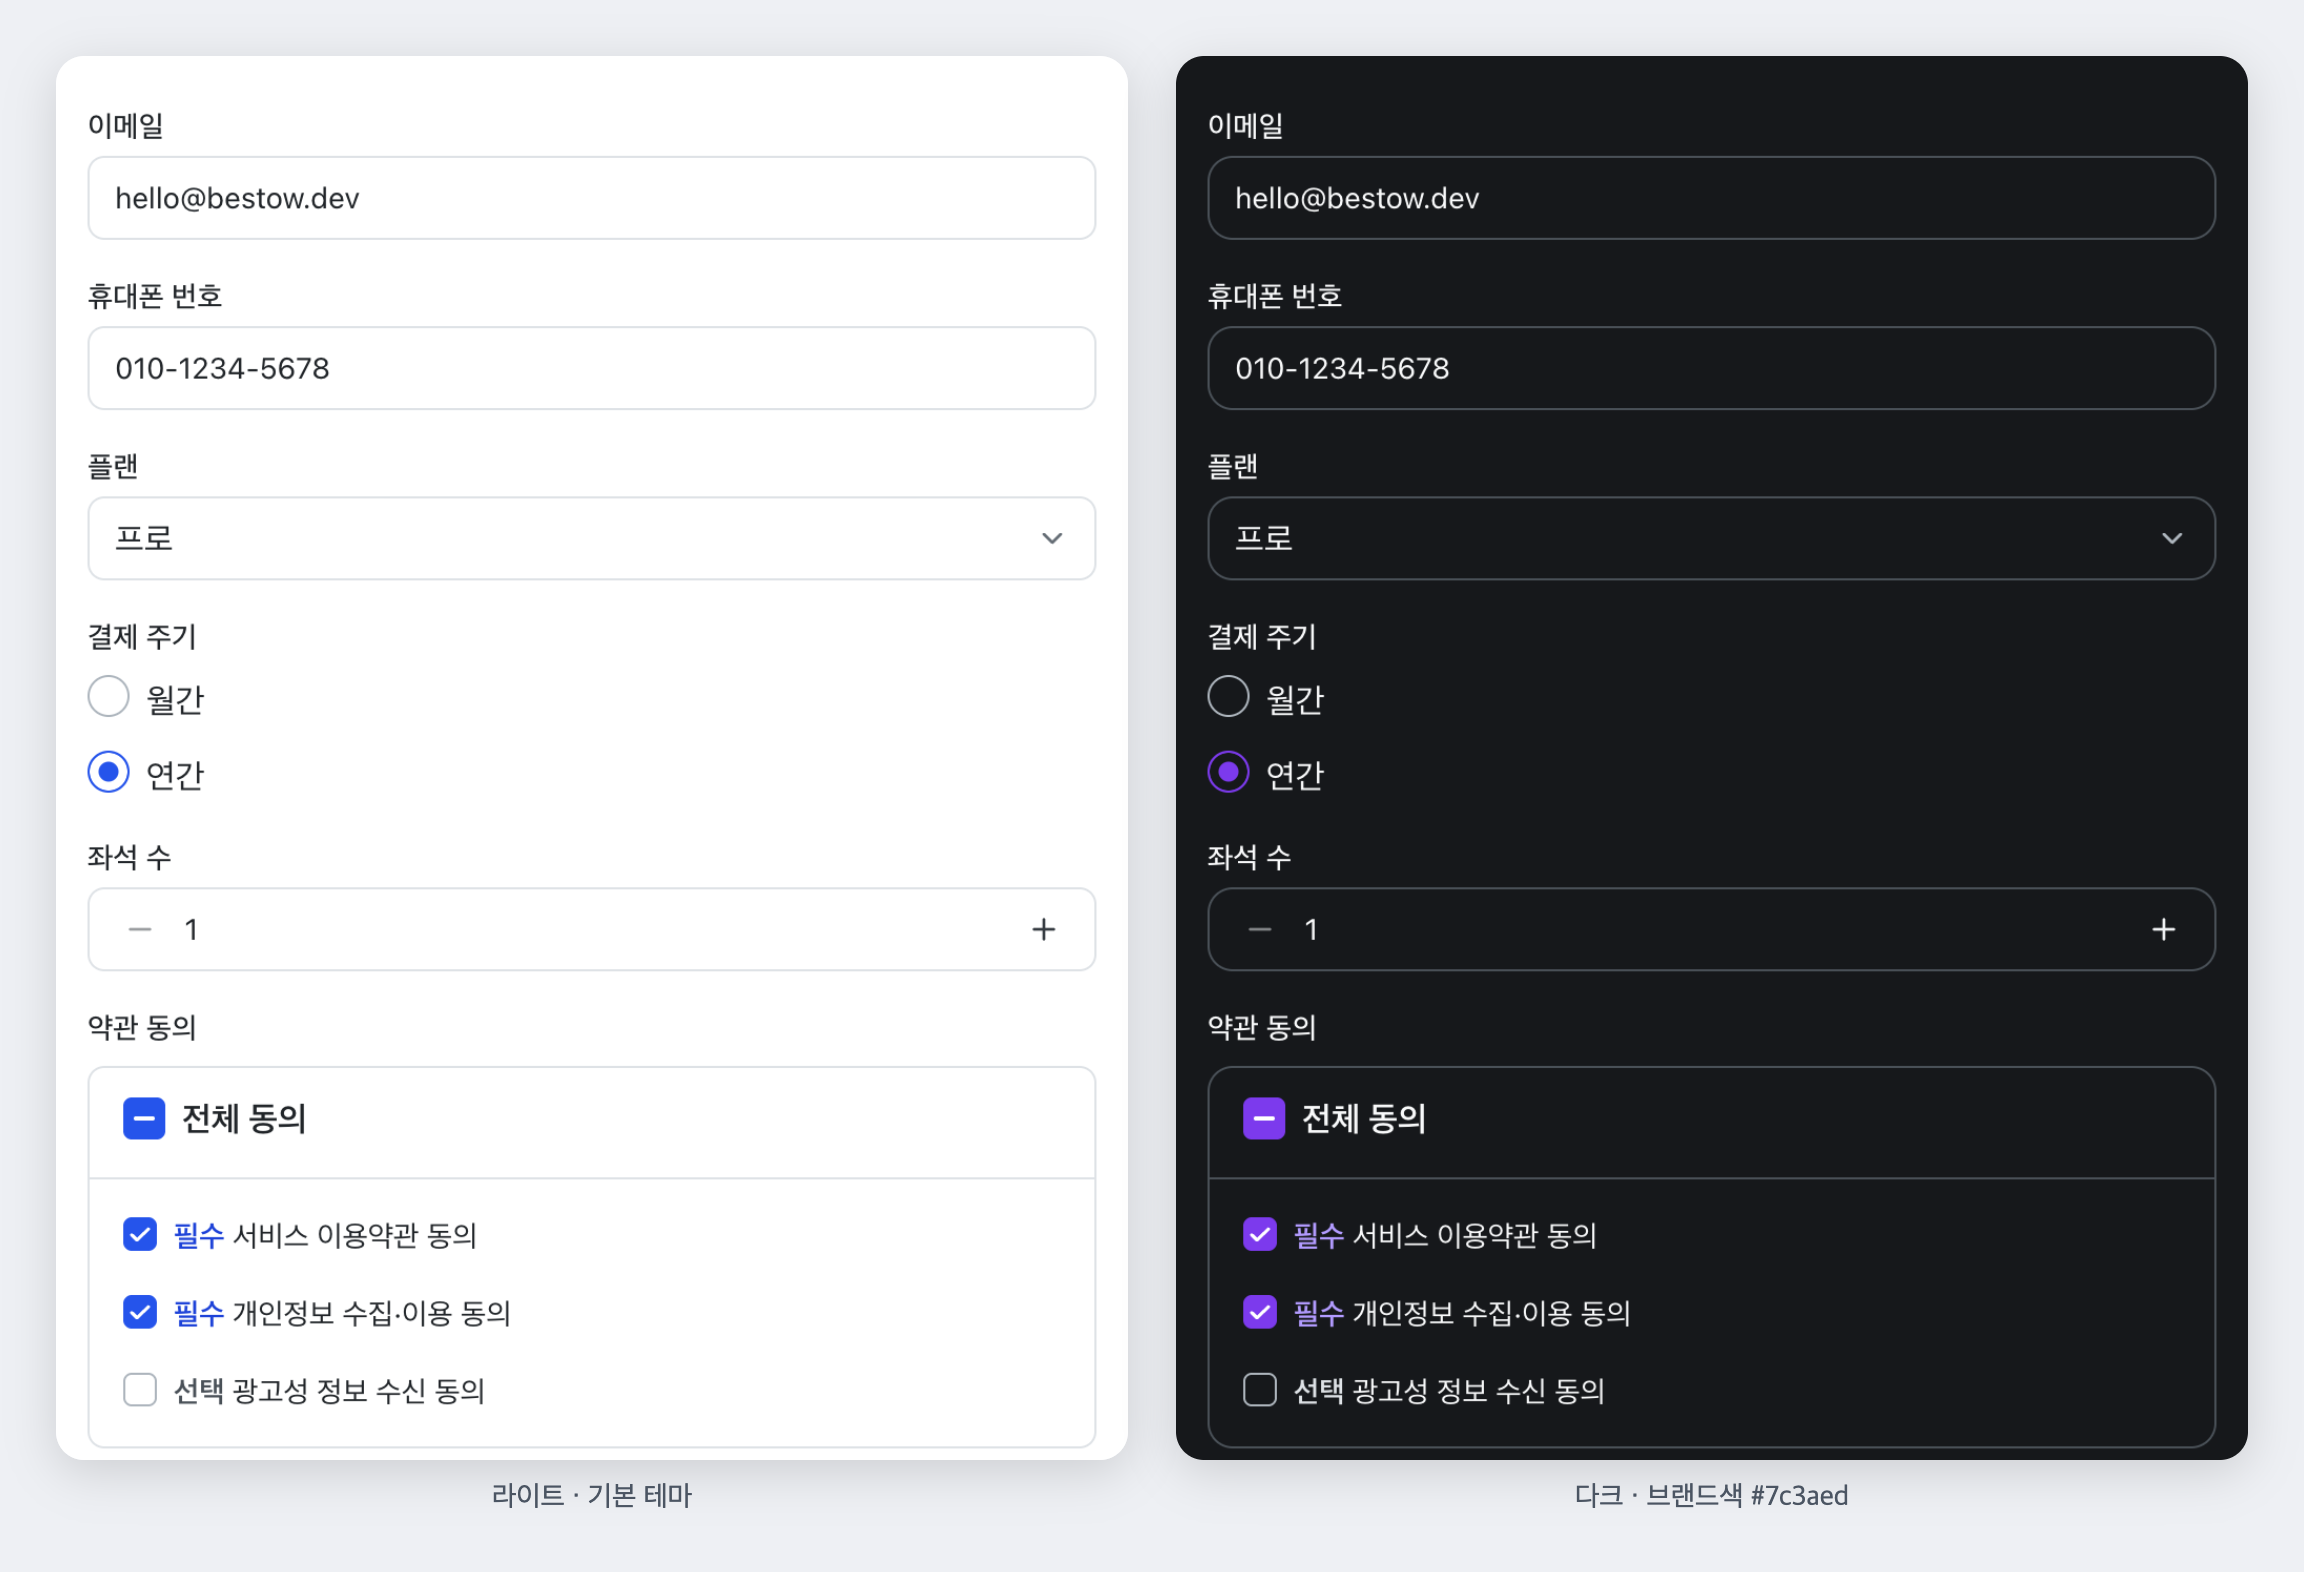
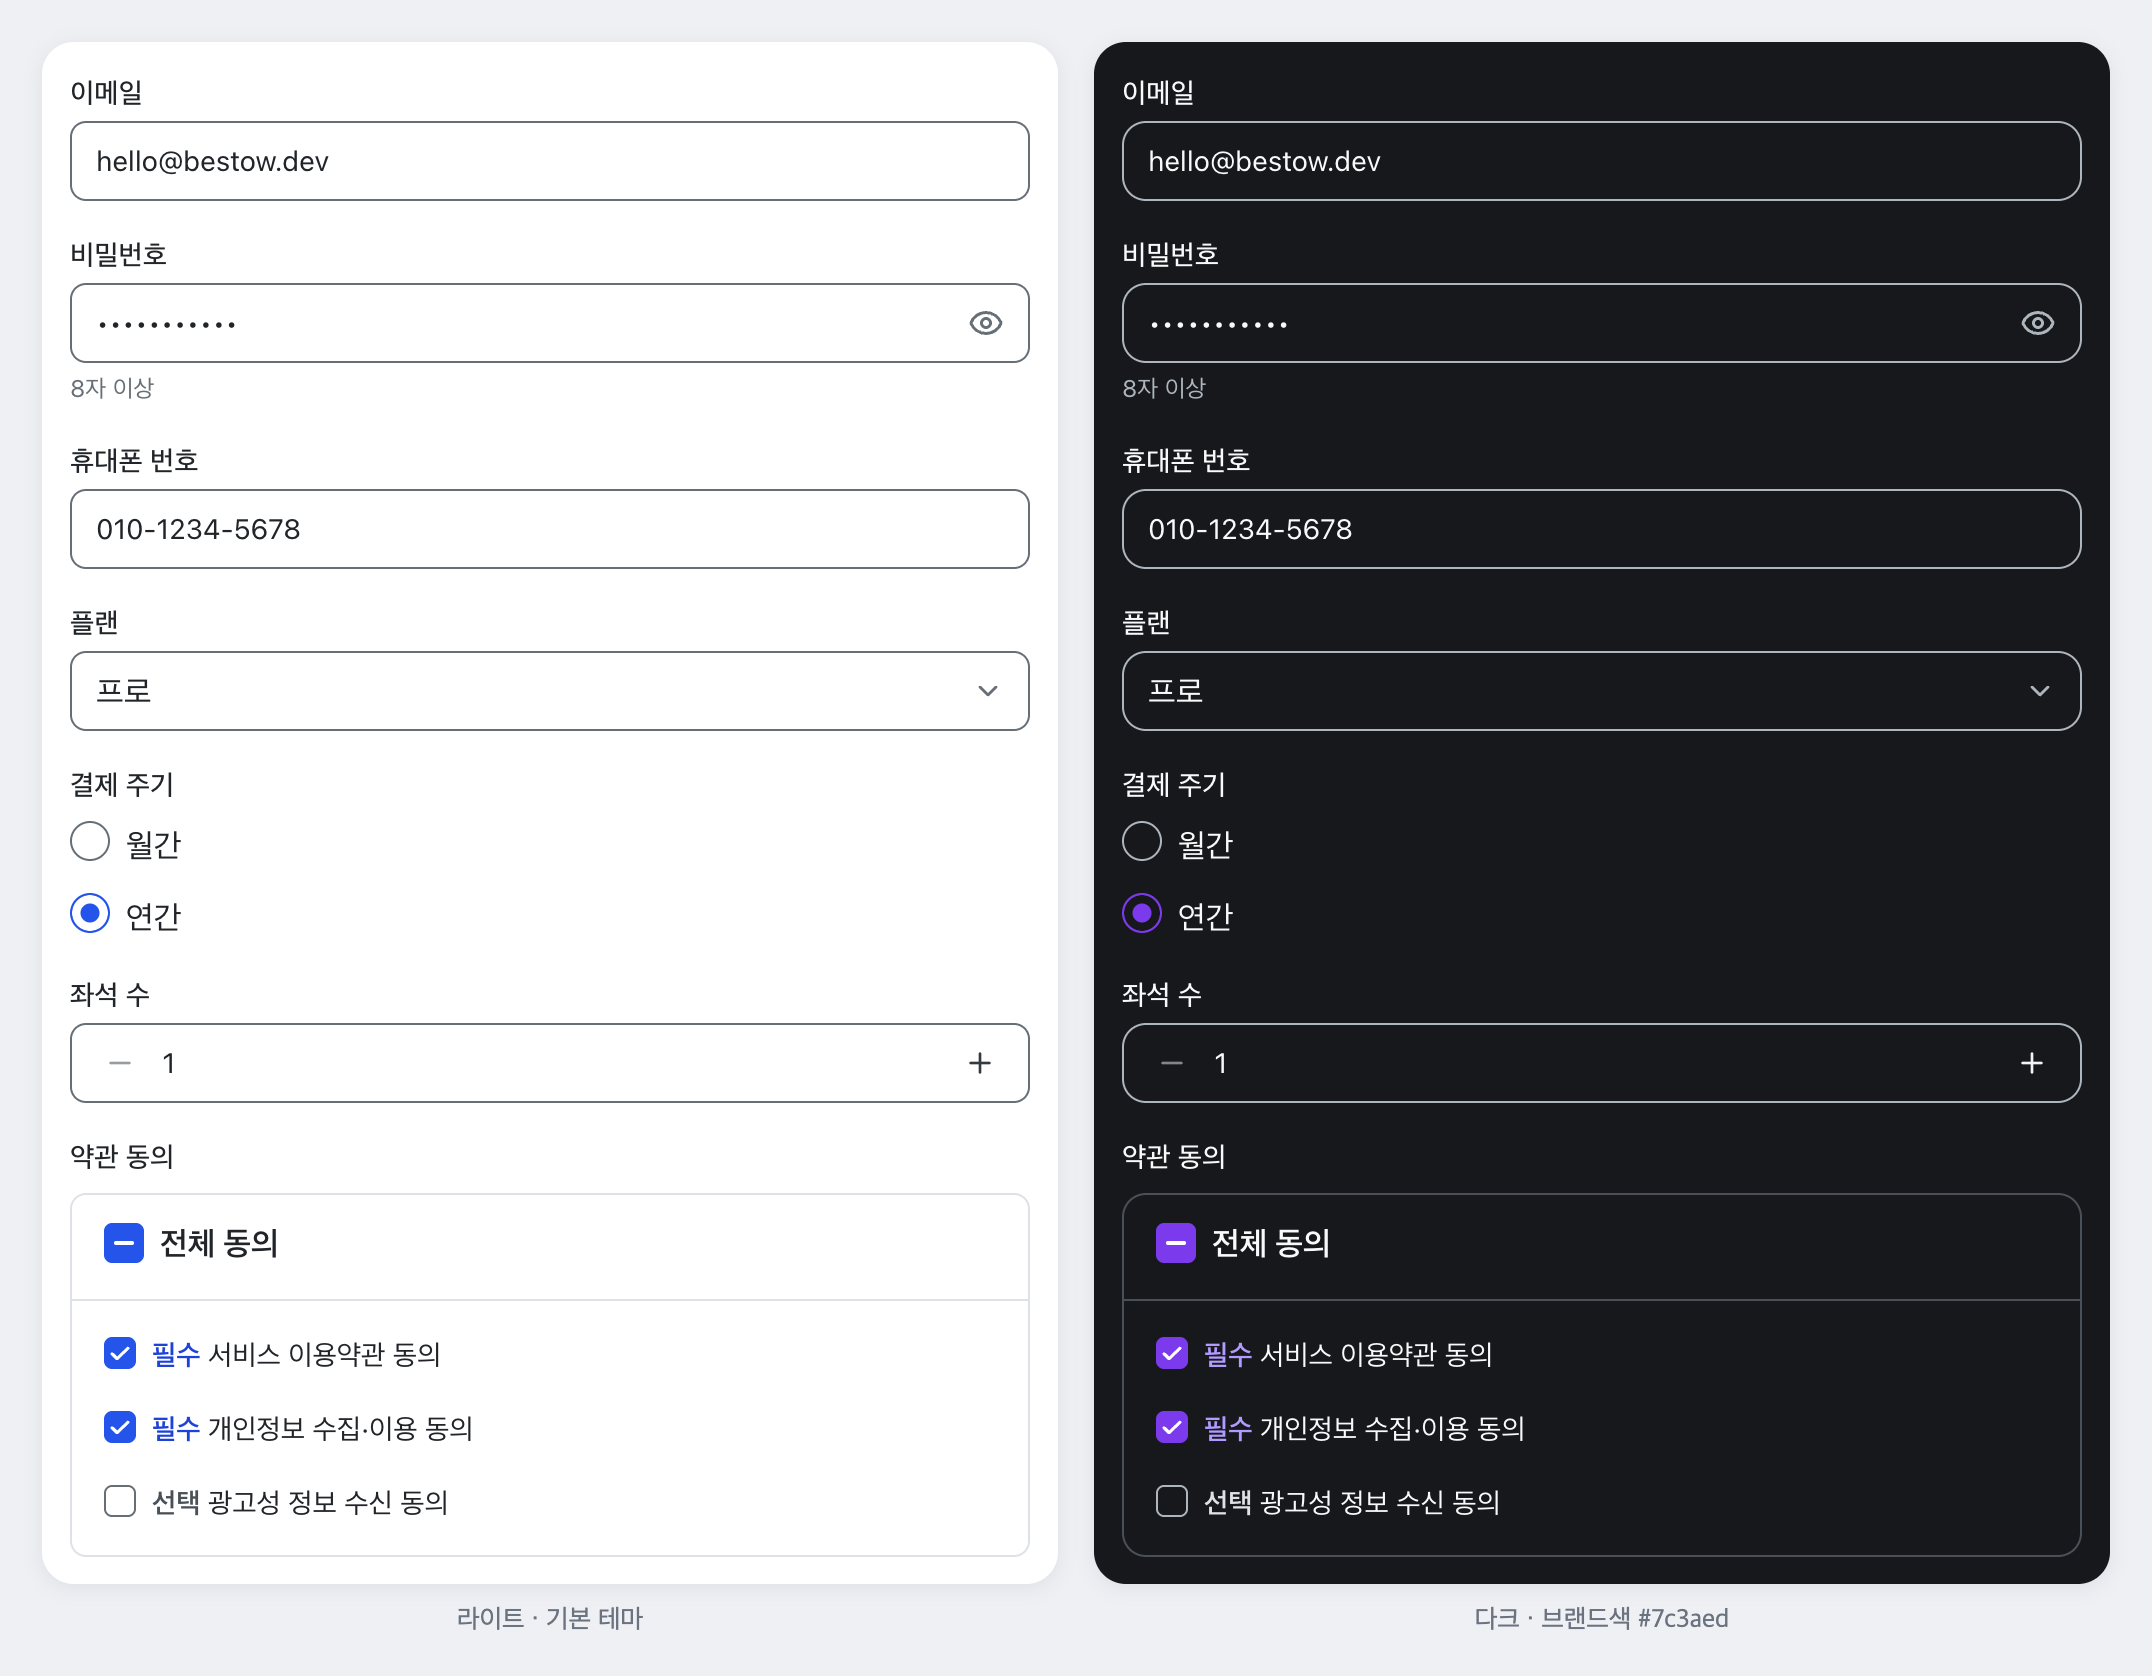
📸 README 히어로 이미지를 비밀번호 칸·2.0 입력 테두리로 다시 찍음

Changed region(s): [[0.0, 0.0, 0.9963, 0.9663]]

diff --git a/docs/ROADMAP.md b/docs/ROADMAP.md
@@ -108,7 +108,8 @@
 
 1. ✅ **노출 정비** (2026-10-21 완료 — 남은 것: 사용자의 GitHub 설정, push 뒤 README 이미지·배지 확인)
    - 히어로 이미지 `docs/images/hero.png` 는 playground `/signup` 운영 빌드(3001)를 Playwright 로 라이트 기본·다크+브랜드(#7c3aed)로 찍어
-     나란히 합친 것(2x, 약 210 kB). 화면이 크게 바뀌면 같은 방법으로 다시 찍는다(값 입력: 이메일·전화·플랜 "프로"·연간·필수 약관 2개).
+     나란히 합친 것(2x). 화면이 크게 바뀌면 같은 방법으로 다시 찍는다(값 입력: 이메일 hello@bestow.dev·비밀번호·전화·플랜 "프로"·연간·필수 약관 2개, 이메일 ~ 약관 동의 영역 + 14px 여백, 아래 설명 13px).
+     2026-11-06 비밀번호 칸·2.0 입력 테두리 반영해 다시 찍음(2152×1676, 약 150 kB).
    - GitHub About·Topics 문구 제안(설정은 사용자).
    - 루트 README 재구성: 맨 위 **히어로 이미지**(playground `/signup` 같은 한국 서비스 키트 화면의 라이트·다크 비교 — Playwright 로 찍어 저장소에 둠),
      **배지**(npm·CI·license — 번들 크기 배지는 패키지 전체 크기를 보여 줘 "Button 하나 1.5 kB" 장점을 가리므로 달지 않고 본문에 숫자로),
@@ -214,7 +215,7 @@
 
 17. ✅ **PasswordInput · SearchInput** (2026-11-06 완료, changeset `password-search-input` react minor — 배포 대기) — 보기 버튼(aria-pressed·Tab 순서·mousedown 으로 포커스 유지), Enter 검색(IME 무시)·Escape 지우기·지우기 후 포커스,
     문구 선택 키 4개, 단위 21·계약 2(+제어 1)·SSR·스토리 13(play 2, !visual)·E2E 2(/signup 비밀번호, /orders 검색 Escape·지우기), 변이 7. 커서 복원 코드는 Chromium·WebKit 에서 불필요해 넣지 않음(스토리 CaretStays 가 CI 3개 브라우저에서 감시).
-    Caps Lock 안내는 하지 않음(필요하면 따로). 번들: 전체 72.35 → 73.07 kB, CSS 10.96 → 11.05 kB, 조합 변화 없음. **/signup 에 비밀번호 칸이 생겨 README 히어로 이미지(docs/images/hero.png)와 화면이 조금 다르다 — 다시 찍을지 사용자 결정.** 원래 계획(작고 수요가 확실하다):
+    Caps Lock 안내는 하지 않음(필요하면 따로). 번들: 전체 72.35 → 73.07 kB, CSS 10.96 → 11.05 kB, 조합 변화 없음. 히어로 이미지는 2026-11-06 다시 찍음(비밀번호 칸 포함). 원래 계획(작고 수요가 확실하다):
     - PasswordInput: 보기/숨기기 버튼(이름·`aria-pressed` 상태, 눌러도 입력 포커스·커서 유지), `autoComplete` current/new-password, Caps Lock 안내 검토, 한국어·`en` 문구.
     - SearchInput: `type="search"` + 지우기 버튼(지운 뒤 입력으로 포커스), Enter → `onSearch`, IME 조합 중 Enter 무시(S1 Combobox 와 같은 처리), `role="search"` 는 쓰는 쪽 form 에 두도록 안내.
     - /orders 파일럿의 검색 칸을 SearchInput 으로 바꿔 확인. 폼 계약 테스트(`form-contract.test.tsx`)·SSR·componentA11y.
@@ -360,3 +361,4 @@ Storybook → https://dev-bestow.github.io/BestOW-UI/ , 예제 앱 → https://d
 | 2026-11-06 | README 크기 숫자를 런칭 글·실측과 맞춤: Button 하나 1.8 → 1.7 kB(루트·react README·POSITIONING), react README CSS 10 → 11 kB, korean-utils README 전체 1.3 → 1.4 kB·maskName 92 → 99 B. npm 페이지 README 는 다음 배포 때 반영 |
 | 2026-11-06 | "런칭 뒤 완성도 보강" 17~22번 추가(PasswordInput·SearchInput → Tag/Chip·EmptyState → 한국 키트 2차 → 앱 뼈대·TimePicker → 아이콘 확장 → 폼 검증 가이드). 14번 항목은 17~20번으로 나눠 옮김(TanStack 가이드만 남음), 인수인계에 다음 작업 표시 |
 | 2026-11-06 | 17번 PasswordInput·SearchInput: 컴포넌트·문구 키·단위·계약·SSR·스토리·E2E(/signup 비밀번호, /orders 검색), componentA11y·kwcag 7.3.3·Guides "글자 입력"·README, changeset react minor. 변이 7(커서 복원은 불필요해 제거). 새 스토리 기준 이미지는 push 뒤 자동 생성 |
+| 2026-11-06 | README 히어로 이미지 다시 찍음 — /signup 운영 빌드(3001)에 비밀번호 칸 포함, 2.0 입력 테두리 반영(2152×1676, 209 → 152 kB) |
